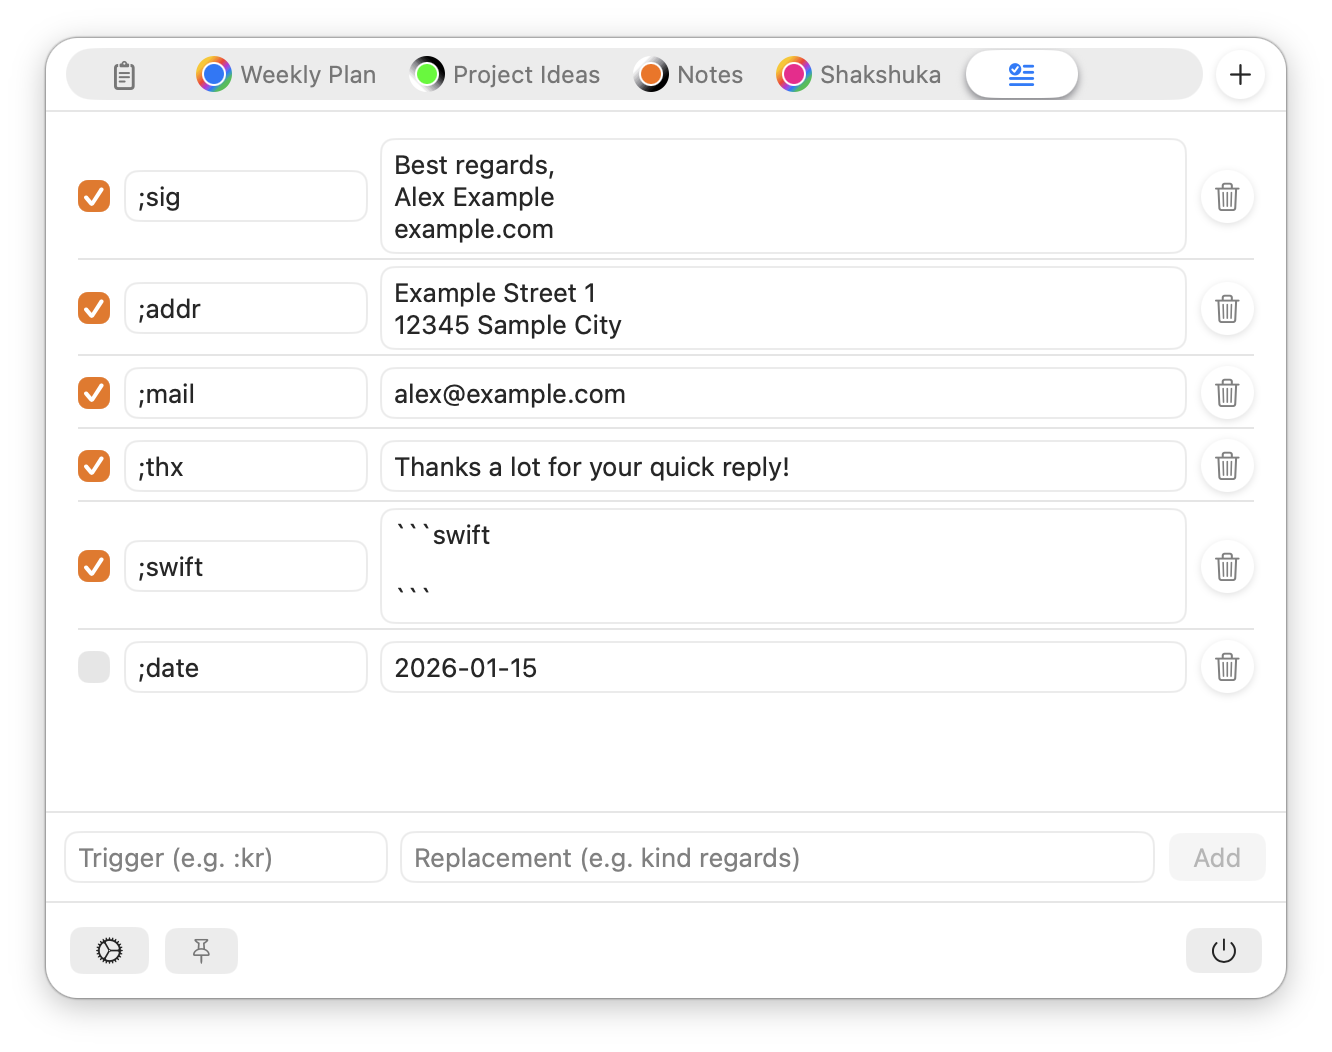
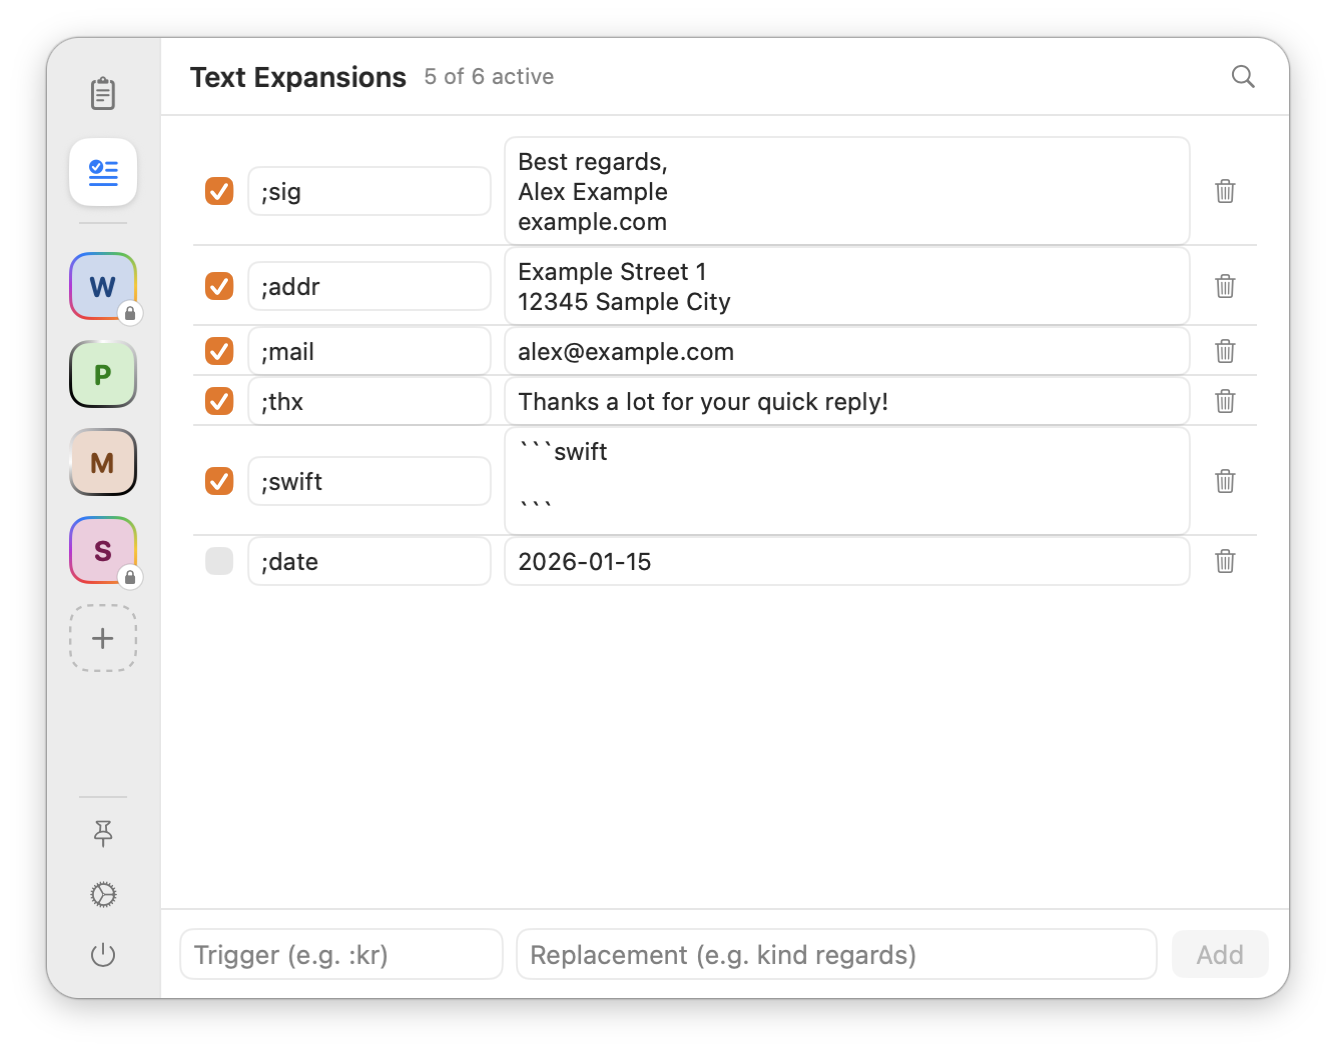
Update screenshots and README for the sidebar and clipboard formats
Demo mode gains -DemoOpenTab <n>, which opens the panel on the n-th
sidebar tab at launch so screenshots can be taken without clicking, and
sample entries for a link with title and a copied file.

diff --git a/xNotes/Manager/DemoMode.swift b/xNotes/Manager/DemoMode.swift
@@ -6,6 +6,8 @@
 //
 //  Enable with the launch argument `-DemoMode YES`
 //  (Xcode: Product ▸ Scheme ▸ Edit Scheme… ▸ Run ▸ Arguments).
+//  Add `-DemoOpenTab <n>` to open the panel right after launch with the n-th tab of the
+//  sidebar selected (1 = clipboard), e.g. for scripted screenshots.
 //
 //  In demo mode:
 //  - tabs are loaded from built-in sample data and saved to `tabs-demo.json`
@@ -24,6 +26,17 @@ enum DemoMode {
         return UserDefaults.standard.bool(forKey: "DemoMode")
         #else
         return false
+        #endif
+    }
+
+    /// Sidebar position (1-based) of the tab to show in a panel opened at launch.
+    static var openTabAtLaunch: Int? {
+        #if DEBUG
+        guard isEnabled else { return nil }
+        let value = UserDefaults.standard.integer(forKey: "DemoOpenTab")
+        return value > 0 ? value : nil
+        #else
+        return nil
         #endif
     }
 }
@@ -85,19 +98,32 @@ enum DemoData {
     ]
 
     private static func clipboardItems(now: Date) -> [ClipboardItem] {
-        func item(_ text: String, minutesAgo: Double, app: String, bundleId: String, pinned: Int? = nil) -> ClipboardItem {
+        func item(
+            _ text: String,
+            minutesAgo: Double,
+            app: String,
+            bundleId: String,
+            pinned: Int? = nil,
+            linkTitle: String? = nil,
+            filePaths: [String] = []
+        ) -> ClipboardItem {
             ClipboardItem(
                 text: text,
                 date: now.addingTimeInterval(-minutesAgo * 60),
                 pinnedSlot: pinned,
                 sourceAppName: app,
-                sourceAppBundleId: bundleId
+                sourceAppBundleId: bundleId,
+                pasteboardTypes: linkTitle != nil ? ["public.utf8-plain-text", "public.url", "public.url-name"] : ["public.utf8-plain-text"],
+                filePaths: filePaths,
+                copiedLinkURL: linkTitle != nil ? text : nil,
+                copiedLinkTitle: linkTitle
             )
         }
         return [
             item("alex@example.com", minutesAgo: 600, app: "Mail", bundleId: "com.apple.mail", pinned: 1),
             item("Example Street 1, 12345 Sample City", minutesAgo: 900, app: "Contacts", bundleId: "com.apple.AddressBook", pinned: 2),
-            item("https://example.com/docs/getting-started?ref=xnotes", minutesAgo: 2, app: "Safari", bundleId: "com.apple.Safari"),
+            item("https://example.com/docs/getting-started?ref=xnotes", minutesAgo: 2, app: "Safari", bundleId: "com.apple.Safari", linkTitle: "Getting Started – Example Docs"),
+            item("Calculator.app", minutesAgo: 4, app: "Finder", bundleId: "com.apple.finder", filePaths: ["/System/Applications/Calculator.app"]),
             item("{\"name\":\"xNotes\",\"version\":\"1.1.0\",\"features\":[\"tabs\",\"clipboard\",\"plugins\"]}", minutesAgo: 5, app: "Terminal", bundleId: "com.apple.Terminal"),
             item("git log --oneline --graph --decorate -20", minutesAgo: 12, app: "Terminal", bundleId: "com.apple.Terminal"),
             item("let filtered = items.filter { $0.isPinned }", minutesAgo: 25, app: "Xcode", bundleId: "com.apple.dt.Xcode"),

diff --git a/xNotes/AppDelegate.swift b/xNotes/AppDelegate.swift
@@ -66,6 +66,21 @@ class AppDelegate: NSObject, NSApplicationDelegate {
             AppDelegate.sharedTextExpansionEngine?.start()
         }
 
+        if let position = DemoMode.openTabAtLaunch {
+            let tabs = notesManager.sidebarOrderedTabs
+            if position <= tabs.count {
+                notesManager.selectedTabId = tabs[position - 1].id
+            }
+            DispatchQueue.main.asyncAfter(deadline: .now() + 0.5) { [weak self] in
+                guard let self, let button = self.statusItem?.button else { return }
+                // Stay visible while another app is active (screenshots are taken from outside).
+                self.panel?.hidesOnDeactivate = false
+                self.showPanel(relativeTo: button)
+                self.removeDismissMonitors()
+                self.panel?.orderFrontRegardless()
+            }
+        }
+
         NotificationCenter.default.addObserver(
             self,
             selector: #selector(handleClosePopover),

diff --git a/README.md b/README.md
@@ -3,24 +3,26 @@
 xNotes is a lightweight macOS menu bar notes app that keeps notes in colour-coded tabs, tracks a full clipboard history alongside them, and lets you cut repetitive typing with a built-in text expander. Define a short trigger, hint it with a snippet of any length — a signature, a standard reply, an address, a code block — and xNotes replaces the trigger with the full snippet the moment you type it, in whichever app you're working in.
 
 <p align="center">
-  <img src="./screenshot.png" width="600" alt="xNotes with colour-coded tabs and Markdown highlighting">
+  <img src="./screenshot.png" width="600" alt="xNotes with the tab sidebar and Markdown highlighting">
 </p>
 
 ## Features
 - Menu bar popover for fast access
-- Multiple tabs with titles and colors
+- Multiple tabs with titles and colors in a slim sidebar (⌘1–⌘9); a context line shows title, last edit, color and tab actions
+- Optional rainbow border around tabs that turns as auto-delete approaches
 - Lock tabs to protect them from deletion; unlocked tabs are deleted automatically after a configurable number of days without edits (deleting always asks first, including unlocking a tab that is already past that period)
 - Auto title from the first non-empty line
 - Clipboard history tab (always visible)
 - Pinned clipboard slots (max 9)
-- Source app name and icon for clipboard items
+- Source app name and icon for clipboard items; hover for formats, size and more
+- Clipboard keeps files, formatting (RTF, HTML) and links with titles; skips passwords marked as sensitive
 - Clipboard item transformations (case, JSON, URL, Base64, line tools, etc.), grouped in submenus
 - Extensible with your own transformations as JavaScript plugins — no rebuild needed
 - Filter field in the clipboard-only panel
 - Text expansion rules and quick inserts
 - Search across tab titles, note content and clipboard history
-- Export notes to text
-- Backup export/import (JSON)
+- Export notes to text and backup export/import (JSON) in Settings, file names dated YYYYMMDD
+- Menu bar right-click menu with the latest clipboard entries (count configurable)
 - Editor font, size, theme and line number settings
 - Light and dark mode
 - Optional "keep window open" pin
@@ -69,7 +71,7 @@ Alternatively, right-click the app in Finder and choose "Open".
 - In the clipboard-only panel, type to filter; Return pastes the first match into the last app
 
 <p align="center">
-  <img src="./clipboard.png" width="600" alt="Clipboard history with pinned items and the transform context menu">
+  <img src="./clipboard.png" width="600" alt="Clipboard history with pinned items, a link with its title and a copied file">
 </p>
 
 ### Clipboard Transform Plugins
